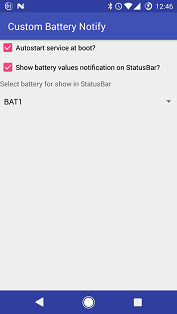
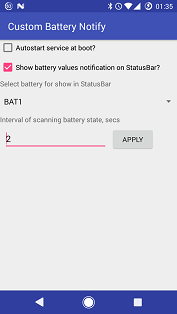
add interval of scanning settings

diff --git a/app/src/main/java/ru/olegsvs/custombatterynotification/SettingsActivity.java b/app/src/main/java/ru/olegsvs/custombatterynotification/SettingsActivity.java
@@ -9,7 +9,9 @@ import android.util.Log;
 import android.view.View;
 import android.widget.AdapterView;
 import android.widget.ArrayAdapter;
+import android.widget.Button;
 import android.widget.CheckBox;
+import android.widget.EditText;
 import android.widget.Spinner;
 import android.widget.Toast;
 
@@ -23,7 +25,8 @@ public class SettingsActivity extends AppCompatActivity {
     public CheckBox chbServiceStatus;
     public CheckBox chbAutostartService;
     public SharedPreferences sharedPref;
-
+    public Button intervalSetBTN;
+    public EditText intervalET;
     @Override
     protected void onCreate(Bundle savedInstanceState) {
         super.onCreate(savedInstanceState);
@@ -36,15 +39,19 @@ public class SettingsActivity extends AppCompatActivity {
         chbServiceStatus = (CheckBox) findViewById(R.id.chbServiceStatus);
         chbAutostartService = (CheckBox) findViewById(R.id.chbServiceAutoStart);
         spinnerBatteries = (Spinner) findViewById(R.id.spinnerBatteries);
+        intervalSetBTN = (Button) findViewById(R.id.intervalSetBTN);
+        intervalET = (EditText) findViewById(R.id.intervalET);
 
         sharedPref = getSharedPreferences("Settings", Context.MODE_PRIVATE);
 
         Log.i(SettingsActivity.TAG, "onCreate: loading sharedPrefs " + sharedPref.getInt("batterySelection",0));
         Log.i(SettingsActivity.TAG, "onCreate: loading sharedPrefs " + sharedPref.getBoolean("serviceRun", false));
         Log.i(SettingsActivity.TAG, "onCreate: loading sharedPrefs " + sharedPref.getBoolean("serviceAutoStart", false));
+        Log.i(SettingsActivity.TAG, "onCreate: loading sharedPrefs " + sharedPref.getInt("interval", 2));
 
         chbAutostartService.setChecked(sharedPref.getBoolean("serviceAutoStart", false));
         chbServiceStatus.setChecked(sharedPref.getBoolean("serviceRun", false));
+        intervalET.setText(String.valueOf(sharedPref.getInt("interval", 2)));
 
         ArrayAdapter<String> spinnerArrayAdapter = new ArrayAdapter<String>(this,   android.R.layout.simple_spinner_item, batteries);
         spinnerArrayAdapter.setDropDownViewResource(android.R.layout.simple_spinner_dropdown_item); // The drop down view
@@ -72,6 +79,17 @@ public class SettingsActivity extends AppCompatActivity {
             public void onNothingSelected(AdapterView<?> arg0) {
             }
         });
+    }
+
+    public void intervalClick(View v) {
+        if(intervalET.getText().toString().equals("0") == false) {
+            Log.i(SettingsActivity.TAG, "intervalClick: setting interval " + intervalET.getText().toString());
+            SharedPreferences.Editor editor = sharedPref.edit();
+            editor.putInt("interval" , Integer.parseInt(intervalET.getText().toString()));
+            editor.apply();
+            editor.commit();
+            BatteryManagerService.setInterval(Integer.parseInt(intervalET.getText().toString()));
+        } else Toast.makeText(getApplicationContext(),getString(R.string.intervalWarning),Toast.LENGTH_LONG).show();
     }
 
     public void cnbAutoStartClick(View v) {

diff --git a/app/src/main/java/ru/olegsvs/custombatterynotification/BatteryManagerService.java b/app/src/main/java/ru/olegsvs/custombatterynotification/BatteryManagerService.java
@@ -21,6 +21,7 @@ public class BatteryManagerService extends Service{
     private final String BAT1 = "BAT1 ";
     private final String BAT2 = "BAT2 ";
     private final int NOTIFICATION_CUSTOM_BATTERY = 444;
+    private static int interval = 2000;
     NotificationManager mNotificationManager = null;
 
     private int iconRes[] = {
@@ -88,7 +89,10 @@ public class BatteryManagerService extends Service{
         return IS_STARTED;
     }
 
-
+    public static void setInterval(int interval) {
+        BatteryManagerService.interval = interval * 1000;
+        Log.i(SettingsActivity.TAG, "setInterval: " + BatteryManagerService.interval);
+    }
     public static void setBatteryForShow(int type) {
         if (type == 0) {
             showBAT2 = false;
@@ -117,6 +121,8 @@ public class BatteryManagerService extends Service{
             Log.i(SettingsActivity.TAG, "onStartCommand: BatteryManagerService start");
              mNotificationManager =
                     (NotificationManager) getSystemService(Service.NOTIFICATION_SERVICE);
+            interval = sharedPref.getInt("interval", 1000);
+            Log.i(SettingsActivity.TAG, "onStartCommand: load interval = " + interval);
             createNotify();
             Log.i(SettingsActivity.TAG, "onStartCommand: create and show notification");
             return super.onStartCommand(intent, flags, startId);
@@ -177,13 +183,13 @@ public class BatteryManagerService extends Service{
                     mBuilder.setContentText(getResults());
                     if (showBAT2) mBuilder.setSmallIcon(iconRes[BAT2_CAPACITY]); else mBuilder.setSmallIcon(iconRes[BAT1_CAPACITY]);
                     mNotificationManager.notify(NOTIFICATION_CUSTOM_BATTERY, mBuilder.build());
-                    myHandler.postDelayed(this, 2000);
+                    myHandler.postDelayed(this, interval);
                 }
             }
 
         };
 
-        myHandler.postDelayed(runnable, 2000);
+        myHandler.postDelayed(runnable, interval);
     }
 
     @Nullable
